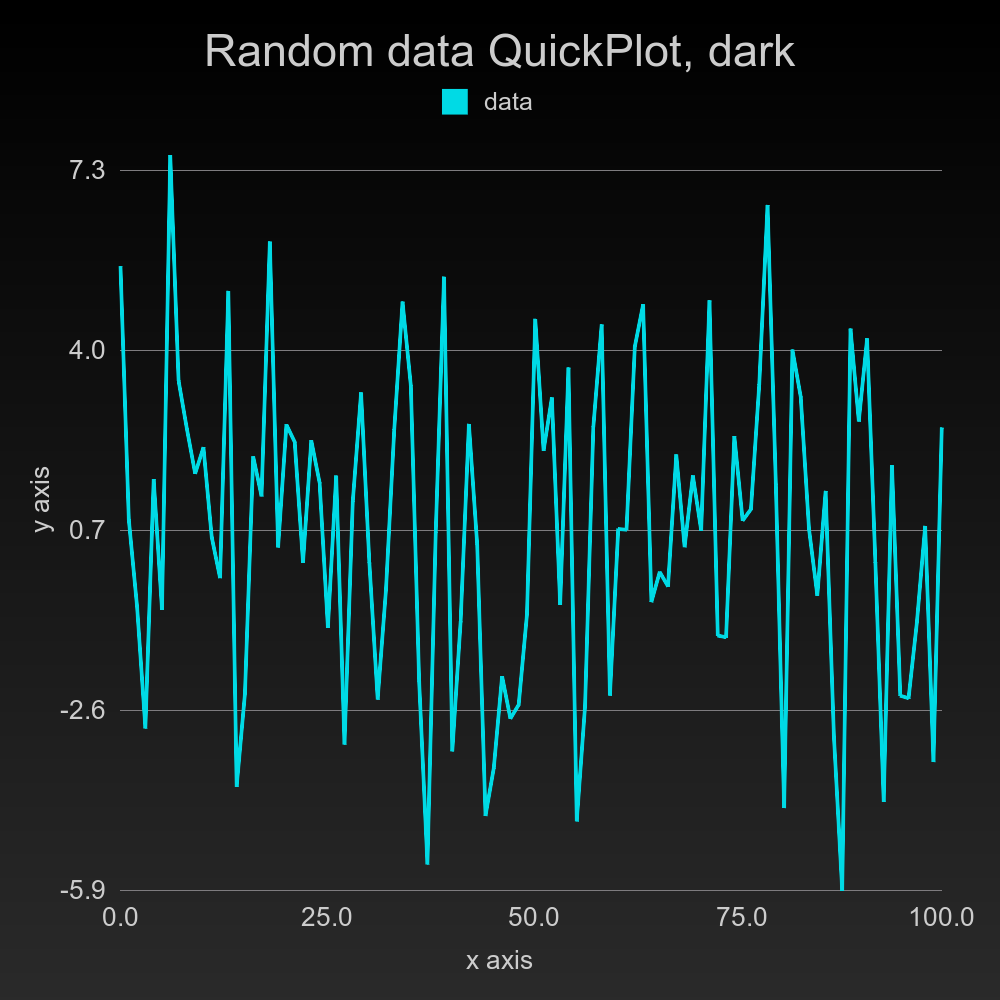
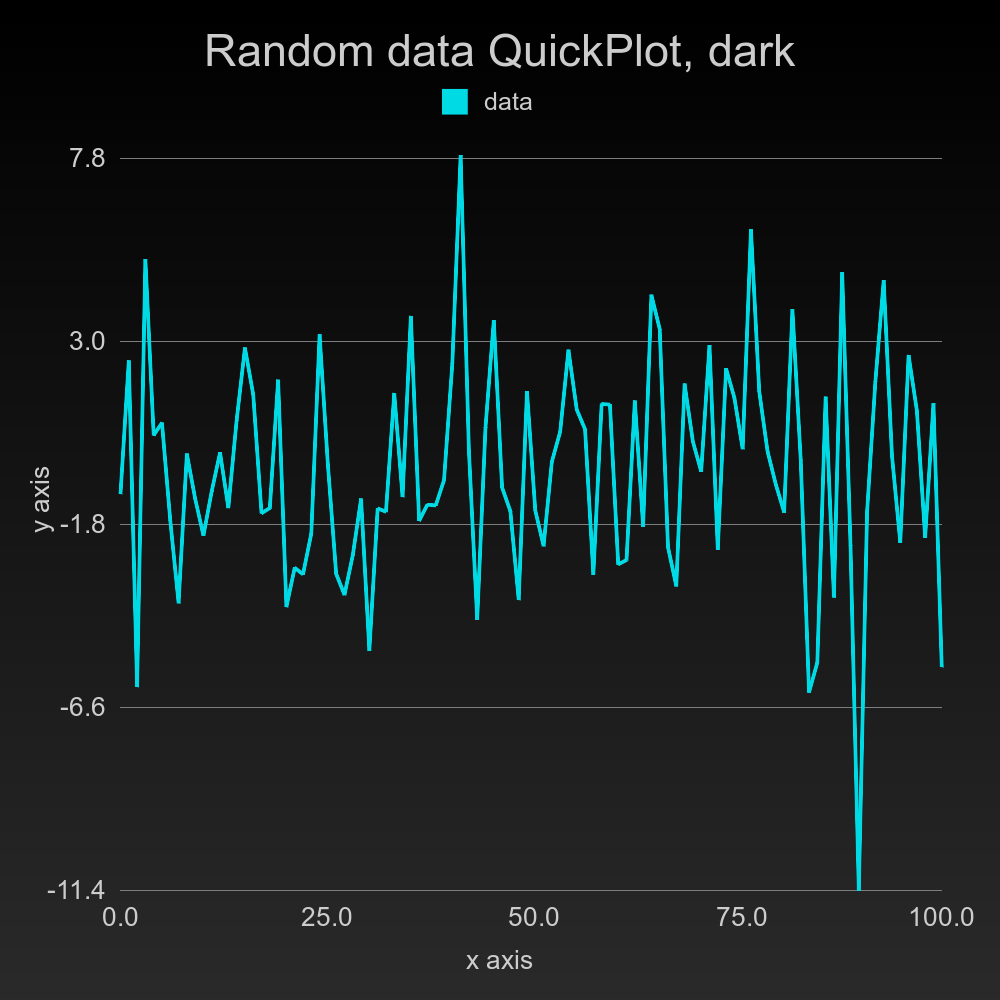
ensure first label exists in rbplot

Changed region(s): [[0.062, 0.155, 0.961, 0.899], [0.062, 0.868, 0.124, 0.899], [0.062, 0.155, 0.124, 0.186]]

diff --git a/lib/rbplot.rb b/lib/rbplot.rb
@@ -136,7 +136,8 @@ class Dsp::Rbplot
             every = (len.to_f / steps).floor
             for i in 0..steps do
                 index = i == 0 ? 0 : (i * every) - 1
-                labels[i * every] = @dataxy.first[1][index].round(2)
+                labels_val = i == 0 ? 1 : i * every
+                labels[labels_val] = @dataxy.first[1][index].round(2)
             end
             @methods[:labels] = labels
         end
